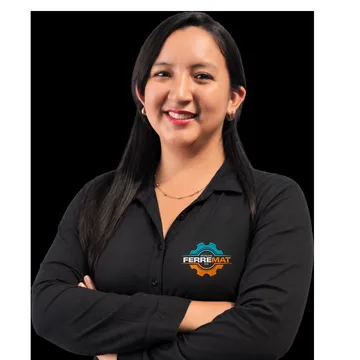
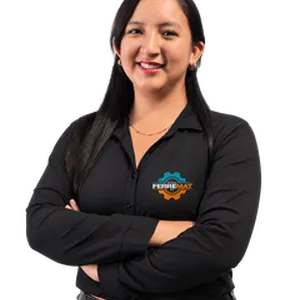
Revert "fix(frontend): fotos vendedores sin corte (crop top) + tarjetas mas grandes"
This reverts commit 887b117699aa3f14492ef1e3357c23a7796f6e5b.

diff --git a/frontend/assets/css/styles.css b/frontend/assets/css/styles.css
@@ -2615,15 +2615,13 @@
     .vendor-option {
       display: flex;
       align-items: center;
-      gap: 10px;
-      padding: 12px;
-      font-size: 14px;
-      line-height: 1.25;
+      gap: 8px;
+      padding: 10px 12px;
+      font-size: 13px;
       color: var(--text-body);
       background: var(--bg-warm);
       border-radius: var(--radius-sm);
       cursor: pointer;
-      min-width: 0;
     }
 
     .vendor-option input {
@@ -2631,17 +2629,11 @@
     }
 
     .vendor-option__foto {
-      width: 56px;
-      height: 56px;
+      width: 48px;
+      height: 48px;
       border-radius: 50%;
       object-fit: cover;
-      object-position: center top;
       flex-shrink: 0;
-    }
-
-    .vendor-option span:last-child {
-      min-width: 0;
-      overflow-wrap: break-word;
     }
 
     .vendor-option__foto--placeholder {
